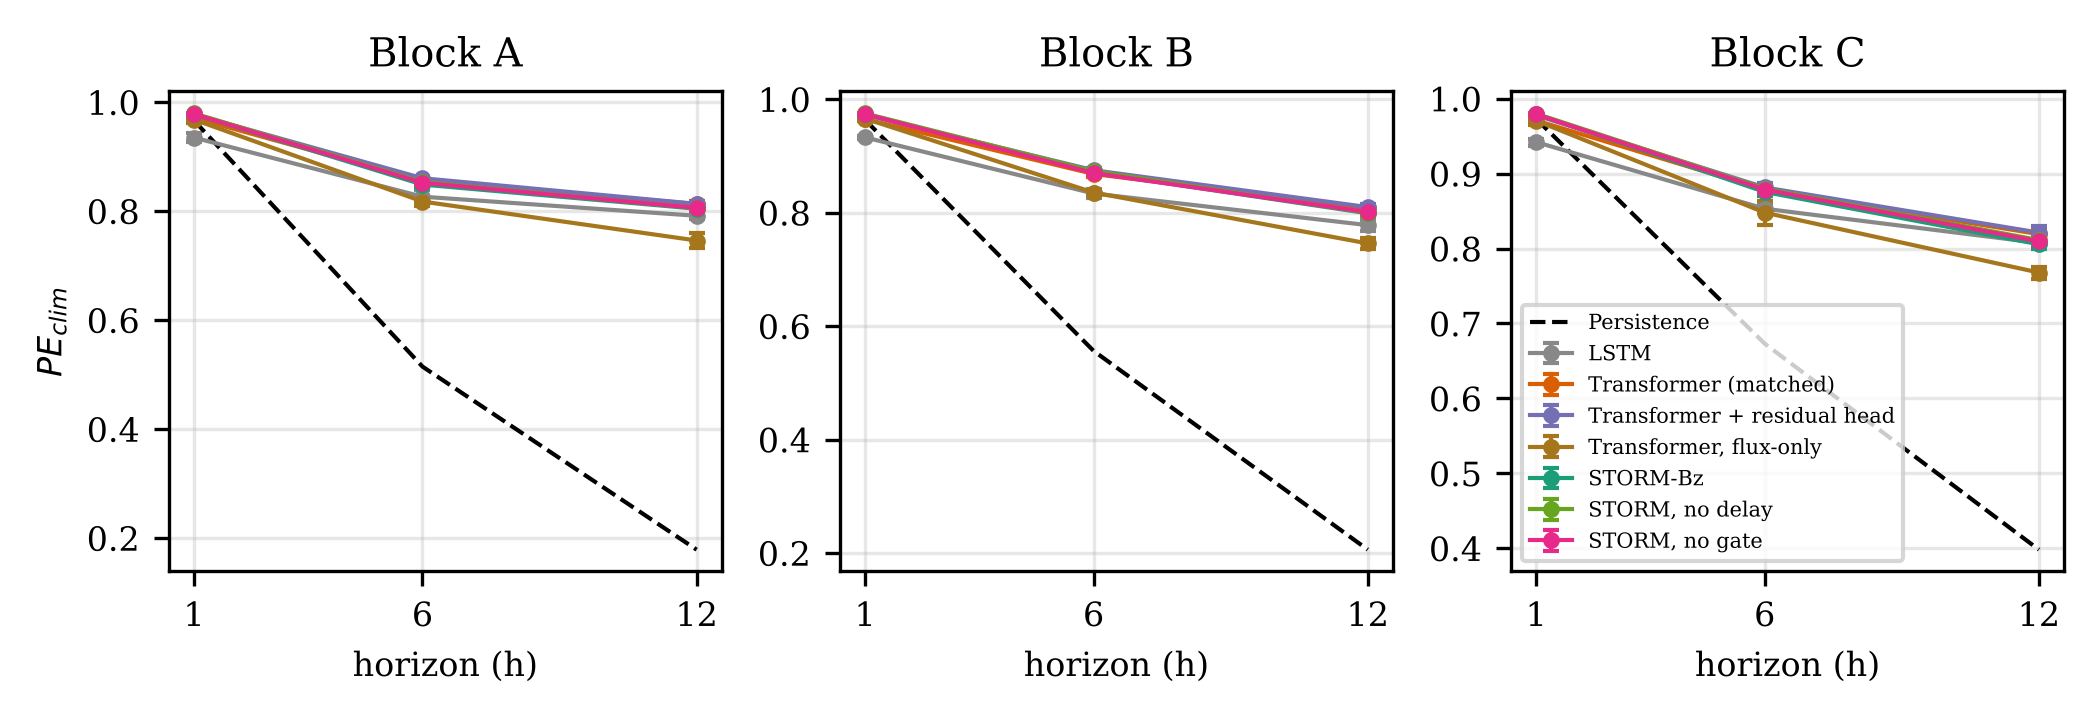
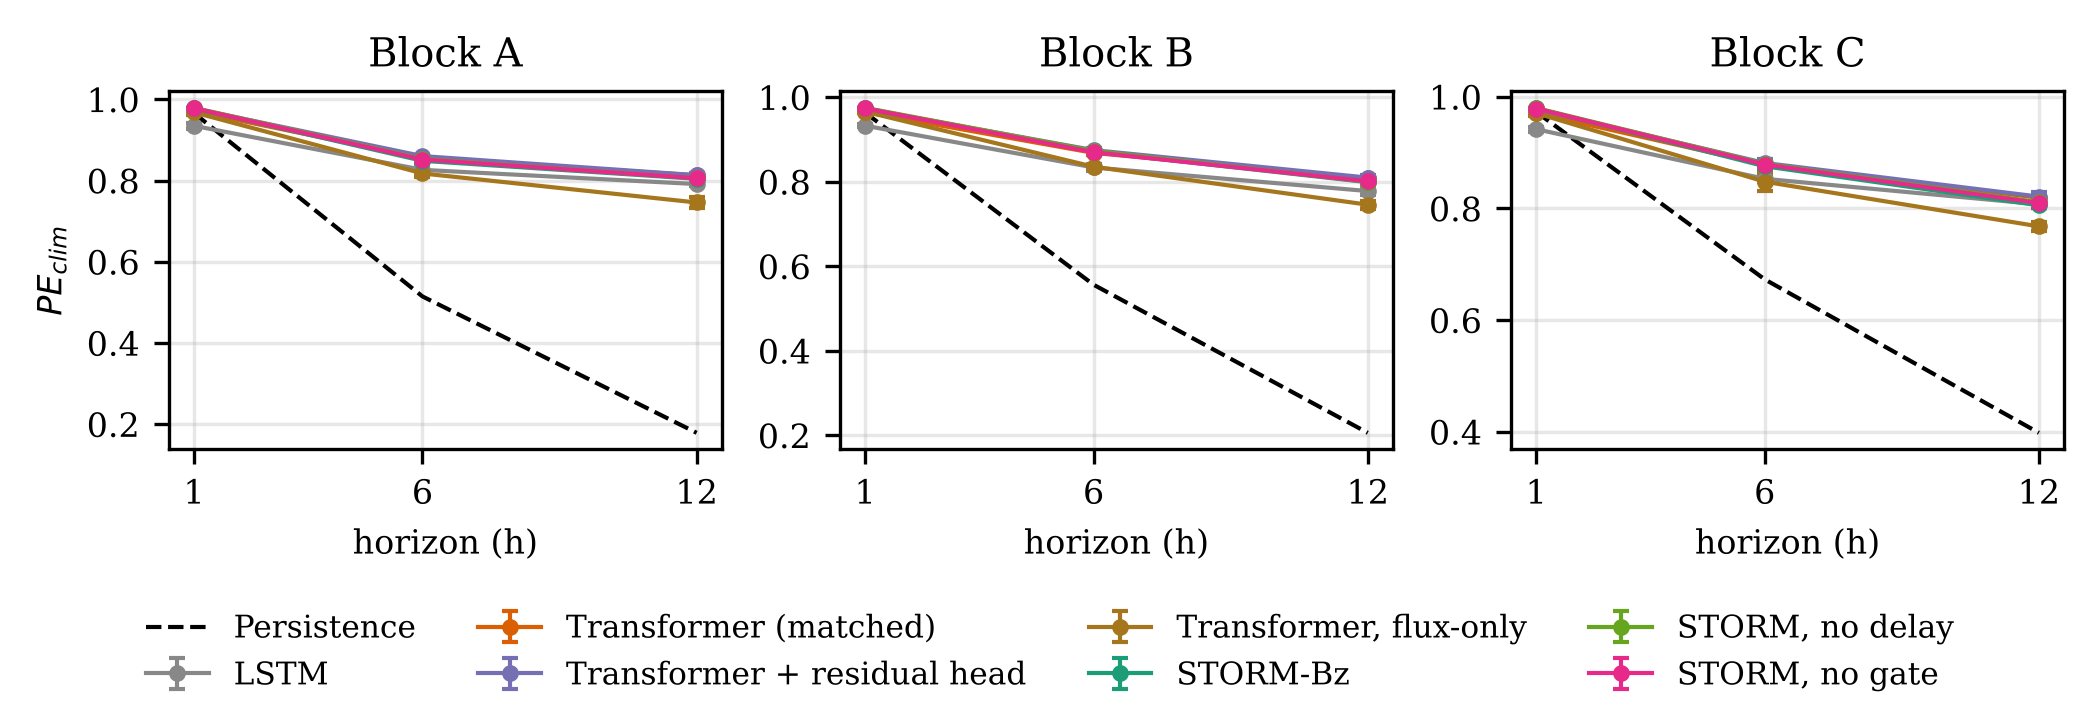
Enlarge figure legends for print legibility (tables unchanged)
Claude-Session: https://claude.ai/code/session_01AQCSpUQVMN3MyWpSynJu2t

diff --git a/pipeline/combine_report.py b/pipeline/combine_report.py
@@ -260,7 +260,7 @@ for k, b in enumerate(BLOCKS[:3]):
         ax[k].errorbar(H, mu, sd_, marker="o", ms=3, lw=1, capsize=2, color=COL[f], label=NAMES[f])
     y, pers = metas[b]["y"], metas[b]["persist"]; ax[k].plot(H, pe_clim(y, np.repeat(pers[:, None], 3, 1)), "k--", lw=1, label="Persistence")
     ax[k].set_title(f"Block {b}"); ax[k].set_xlabel("horizon (h)"); ax[k].set_xticks(H)
-ax[0].set_ylabel(r"$PE_{clim}$"); ax[-1].legend(fontsize=5, loc="lower left"); fig.tight_layout(); fig.savefig(OUT / "figures/fig_horizon.png"); plt.close(fig)
+ax[0].set_ylabel(r"$PE_{clim}$"); h_, l_ = ax[-1].get_legend_handles_labels(); fig.legend(h_, l_, loc="lower center", ncol=4, fontsize=7.5, frameon=False); fig.tight_layout(rect=(0, 0.17, 1, 1)); fig.savefig(OUT / "figures/fig_horizon.png"); plt.close(fig)
 
 if "storm_bz" in fam_all and "transformer_matched" in fam_all:
     fig, ax = plt.subplots(1, 3, figsize=(7, 2.3))
@@ -278,7 +278,7 @@ if "storm_bz" in fam_all and len(nz_df):
             q = nz_df[nz_df.Model == NAMES[f]].groupby("sigma")[f"PE_clim {h}h"].mean()
             if len(q): ax[i].plot(q.index, q.values, marker="o", ms=3, color=COL[f], label=NAMES[f])
         ax[i].set_title(f"{h} h"); ax[i].set_xlabel(r"noise $\sigma$ (standardised units)")
-    ax[0].set_ylabel(r"$PE_{clim}$"); ax[0].legend(fontsize=5); fig.tight_layout(); fig.savefig(OUT / "figures/fig_noise.png"); plt.close(fig)
+    ax[0].set_ylabel(r"$PE_{clim}$"); ax[0].legend(fontsize=7.5); fig.tight_layout(); fig.savefig(OUT / "figures/fig_noise.png"); plt.close(fig)
 
 # case study: deepest-Dst event of the pooled test blocks, 6-h lead
 bb = min(BLOCKS, key=lambda b: metas[b]["dst_target"][:, 1].min())
@@ -293,7 +293,7 @@ ax[0].plot(t, m["y"][lo:hi, 1], "k.", ms=2, label="GOES-15 observed")
 ax[0].plot(*gapify(t, np.repeat(m["persist"][:, None], 3, 1)[lo:hi, 1]), color="#888", lw=.8, label="Persistence")
 for f in ["transformer_matched", "storm_bz"]:
     if f in fam_all: ax[0].plot(*gapify(t, SC[bb][f]["bag"][lo:hi, 1]), color=COL[f], lw=1, label=NAMES[f] + " (bagged)")
-ax[0].set_ylabel(r"log$_{10}$ flux (6 h lead)"); ax[0].legend(fontsize=5); ax[1].plot(*gapify(t, m["dst_target"][lo:hi, 1]), color="#444"); ax[1].set_ylabel("Dst (nT)")
+ax[0].set_ylabel(r"log$_{10}$ flux (6 h lead)"); ax[0].legend(fontsize=6.5, ncol=2, loc="lower center", bbox_to_anchor=(0.5, 1.0), frameon=False, columnspacing=0.8, handlelength=1.5); ax[1].plot(*gapify(t, m["dst_target"][lo:hi, 1]), color="#444"); ax[1].set_ylabel("Dst (nT)")
 fig.autofmt_xdate(); fig.tight_layout(); fig.savefig(OUT / "figures/fig_case_study.png"); plt.close(fig)
 NUM["case_study"] = dict(block=bb, min_dst=float(m["dst_target"][i0, 1]), centre_time=str(pd.to_datetime(m["t_origin"][i0])))
 
